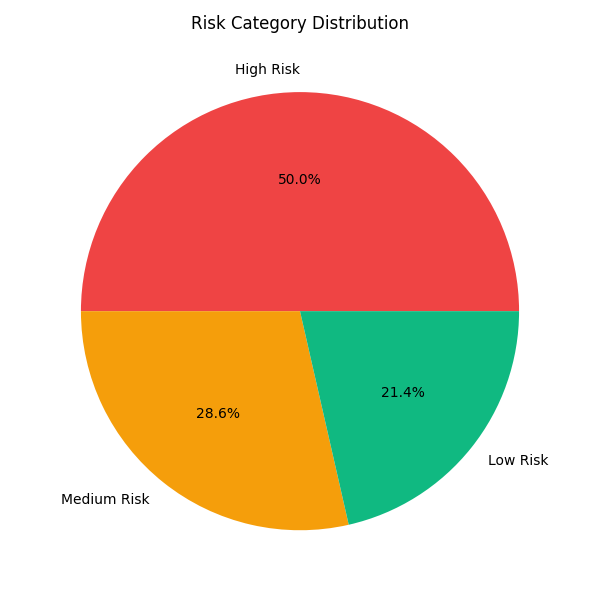
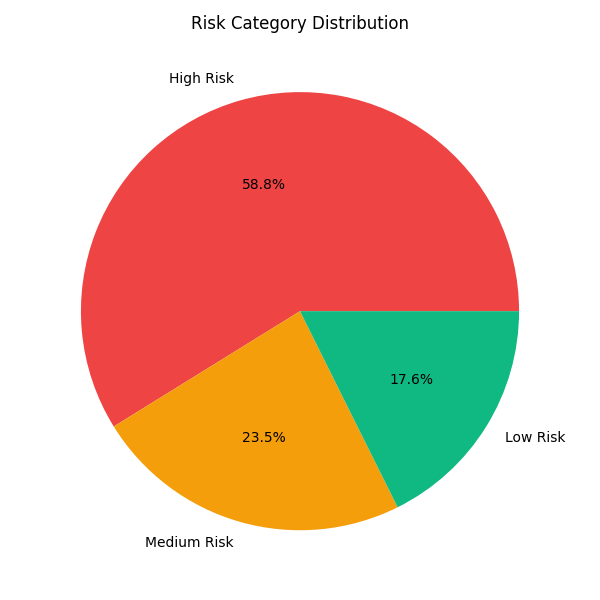
low sugar

diff --git a/app.py b/app.py
@@ -35,6 +35,10 @@ class HealthRiskSystem:
                 score -= 15
             elif bp > 120:
                 score -= 8
+            elif bp < 90:
+                score -= 15
+            elif bp < 110:
+                score -= 8
 
         # Sugar
         if sugar:
@@ -42,6 +46,10 @@ class HealthRiskSystem:
             if sugar > 180:
                 score -= 15
             elif sugar > 140:
+                score -= 8
+            elif sugar < 70:
+                score -= 15
+            elif sugar < 90:
                 score -= 8
 
         # Temperature
